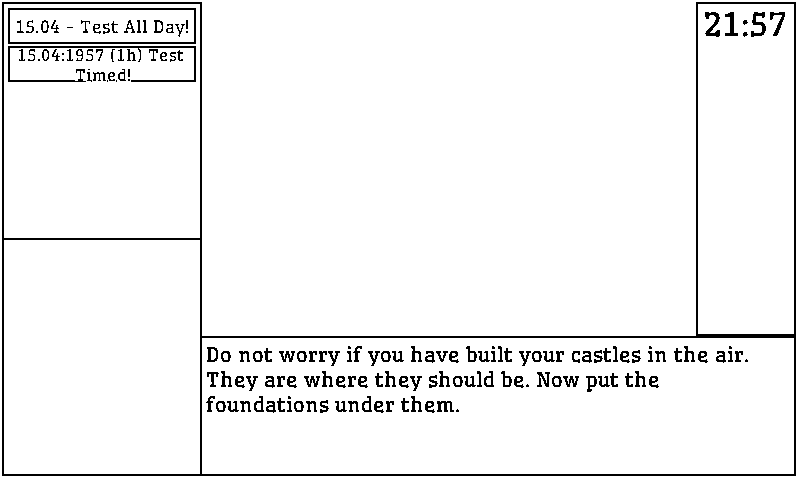
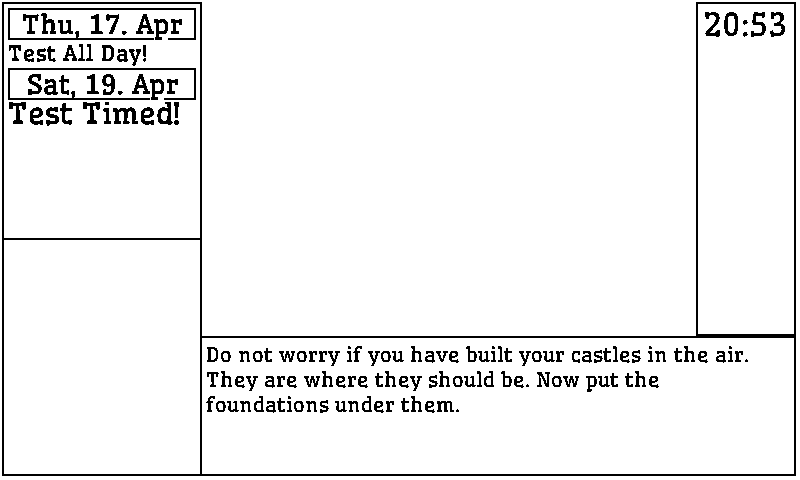
feat: Start alternative calendar approach

Changed region(s): [[0.0, 0.0312, 0.25, 0.2812], [0.9688, 0.0312, 1.0, 0.0938], [0.9062, 0.0312, 0.9375, 0.0938]]

diff --git a/igen/src/dash.rs b/igen/src/dash.rs
@@ -1,9 +1,10 @@
 use crate::calendar::{CalendarHandler, Event, Time};
 use crate::epd::{Area, EPD_HEIGHT, EPD_WIDTH, EpdImage, Outline, Padding};
 use crate::graphics::{Color, Rect};
-use chrono::Timelike;
+use chrono::{NaiveDate, Timelike};
 use fontdue::layout::{HorizontalAlign, LayoutSettings, TextStyle, VerticalAlign, WrapStyle};
 use fontdue::{Font, FontSettings};
+use std::collections::{BTreeSet, HashMap};
 
 pub struct Dash {
     previous: Option<EpdImage>,
@@ -15,6 +16,117 @@ impl Dash {
         Self {
             previous: None,
             calendar_handler: CalendarHandler::new(),
+        }
+    }
+
+    fn create_calendar_day_grouped(&self, cal: &mut Area) {
+        // TODO: change font
+        let font_data = include_bytes!("../assets/Wellfleet/Wellfleet-Regular.ttf") as &[u8];
+        let font =
+            Font::from_bytes(font_data, FontSettings::default()).expect("Could not load font");
+
+        let mut events_per_day: HashMap<NaiveDate, Vec<Event>> = HashMap::new();
+        let mut dates: BTreeSet<NaiveDate> = BTreeSet::new();
+        self.calendar_handler
+            .fetch()
+            .into_iter()
+            .for_each(|e| match e.time {
+                Time::AllDay(nd) => {
+                    dates.insert(nd);
+                    if let std::collections::hash_map::Entry::Vacant(entry) =
+                        events_per_day.entry(nd)
+                    {
+                        entry.insert(vec![e]);
+                    } else {
+                        events_per_day.get_mut(&nd).unwrap().push(e);
+                    }
+                }
+                Time::Timed(dt, _) => {
+                    dates.insert(dt.date_naive());
+                    if let std::collections::hash_map::Entry::Vacant(entry) =
+                        events_per_day.entry(dt.date_naive())
+                    {
+                        entry.insert(vec![e]);
+                    } else {
+                        events_per_day.get_mut(&dt.date_naive()).unwrap().push(e);
+                    }
+                }
+            });
+
+        const DAYS_SHOWN: usize = 2;
+        const EVENTS_PER_DAY: usize = 3;
+        const DATE_EVENT_PADDING: usize = 2;
+        const DATE_HEIGHT: usize = 32;
+        const EVENT_HEIGHT: usize = 24;
+        const EVENT_PADDING: usize = 2;
+
+        let mut cur_y = cal.get_vstart();
+
+        for date in dates.iter().take(DAYS_SHOWN) {
+            let mut date_area = Area::new(
+                cal.get_hstart(),
+                cur_y,
+                cal.get_available_hspace(),
+                DATE_HEIGHT,
+                Color::White,
+                Padding::full(0),
+                Outline::default(),
+            );
+            date_area.auto_layout_text(
+                &font,
+                LayoutSettings {
+                    x: date_area.get_hstart() as f32,
+                    y: date_area.get_vstart() as f32,
+                    max_width: Some(date_area.get_available_hspace() as f32),
+                    max_height: Some(date_area.get_available_vspace() as f32),
+                    horizontal_align: HorizontalAlign::Center,
+                    vertical_align: VerticalAlign::Middle,
+                    ..LayoutSettings::default()
+                },
+                &[TextStyle::new(
+                    date.format("%a, %-d. %b").to_string().as_str(),
+                    1.0,
+                    0,
+                )],
+                50,
+            );
+            cal.add_sub_area(date_area);
+
+            cur_y += DATE_HEIGHT + DATE_EVENT_PADDING;
+
+            for event in events_per_day
+                .get(date)
+                .unwrap()
+                .iter()
+                .take(EVENTS_PER_DAY)
+            {
+                let mut event_area = Area::new(
+                    cal.get_hstart(),
+                    cur_y,
+                    cal.get_available_hspace(),
+                    EVENT_HEIGHT,
+                    Color::White,
+                    Padding::full(0),
+                    Outline::none(),
+                );
+                event_area.auto_layout_text(
+                    &font,
+                    LayoutSettings {
+                        x: event_area.get_hstart() as f32,
+                        y: event_area.get_vstart() as f32,
+                        max_width: Some(event_area.get_available_hspace() as f32),
+                        max_height: Some(event_area.get_available_vspace() as f32),
+                        horizontal_align: HorizontalAlign::Left,
+                        vertical_align: VerticalAlign::Middle,
+                        ..LayoutSettings::default()
+                    },
+                    &[TextStyle::new(event.title.as_str(), 1.0, 0)],
+                    50,
+                );
+                cal.add_sub_area(event_area);
+
+                cur_y += EVENT_HEIGHT + EVENT_PADDING;
+            }
         }
     }
 
@@ -215,7 +327,7 @@ impl Dash {
                 color: Color::Black,
             },
         );
-        self.create_calendar(&mut calendar_area);
+        self.create_calendar_day_grouped(&mut calendar_area);
 
         let weather_area = Area::new(
             0,

diff --git a/igen/src/epd.rs b/igen/src/epd.rs
@@ -168,13 +168,16 @@ impl Area {
         texts: &[TextStyle],
         coverage_threshold: u8,
     ) {
-        let mut current_text_size = 4f32;
+        let mut current_text_size = 1f32;
 
         let is_layout_possible = |texts: &[TextStyle]| -> bool {
-            let mut is_possible = false;
+            let mut is_possible = true;
             Self::layout_text(font, layout_settings, texts, |x, y, _| {
-                is_possible = !(x >= (self.canvas.x + self.canvas.width)
-                    || y >= (self.canvas.y + self.canvas.height));
+                if (x >= (self.canvas.x + self.canvas.width)
+                    || y >= (self.canvas.y + self.canvas.height))
+                {
+                    is_possible = false;
+                }
             });
             is_possible
         };
@@ -229,7 +232,7 @@ impl Area {
         F: FnMut(usize, usize, u8),
     {
         let mut layout: Layout = Layout::new(CoordinateSystem::PositiveYDown);
-        layout.reset(&LayoutSettings { ..layout_settings });
+        layout.reset(&layout_settings);
 
         for ts in texts {
             layout.append(&[font], ts)

diff --git a/igen/src/calendar.rs b/igen/src/calendar.rs
@@ -1,4 +1,5 @@
 use crate::calendar::Time::{AllDay, Timed};
+use std::ops::Add;
 
 #[derive(Debug)]
 pub enum Time {
@@ -27,7 +28,9 @@ impl CalendarHandler {
             Event {
                 title: "Test Timed!".to_string(),
                 time: Timed(
-                    chrono::Local::now().with_timezone(&chrono::Utc),
+                    chrono::Local::now()
+                        .add(chrono::TimeDelta::days(2))
+                        .with_timezone(&chrono::Utc),
                     chrono::TimeDelta::minutes(63),
                 ),
             },
